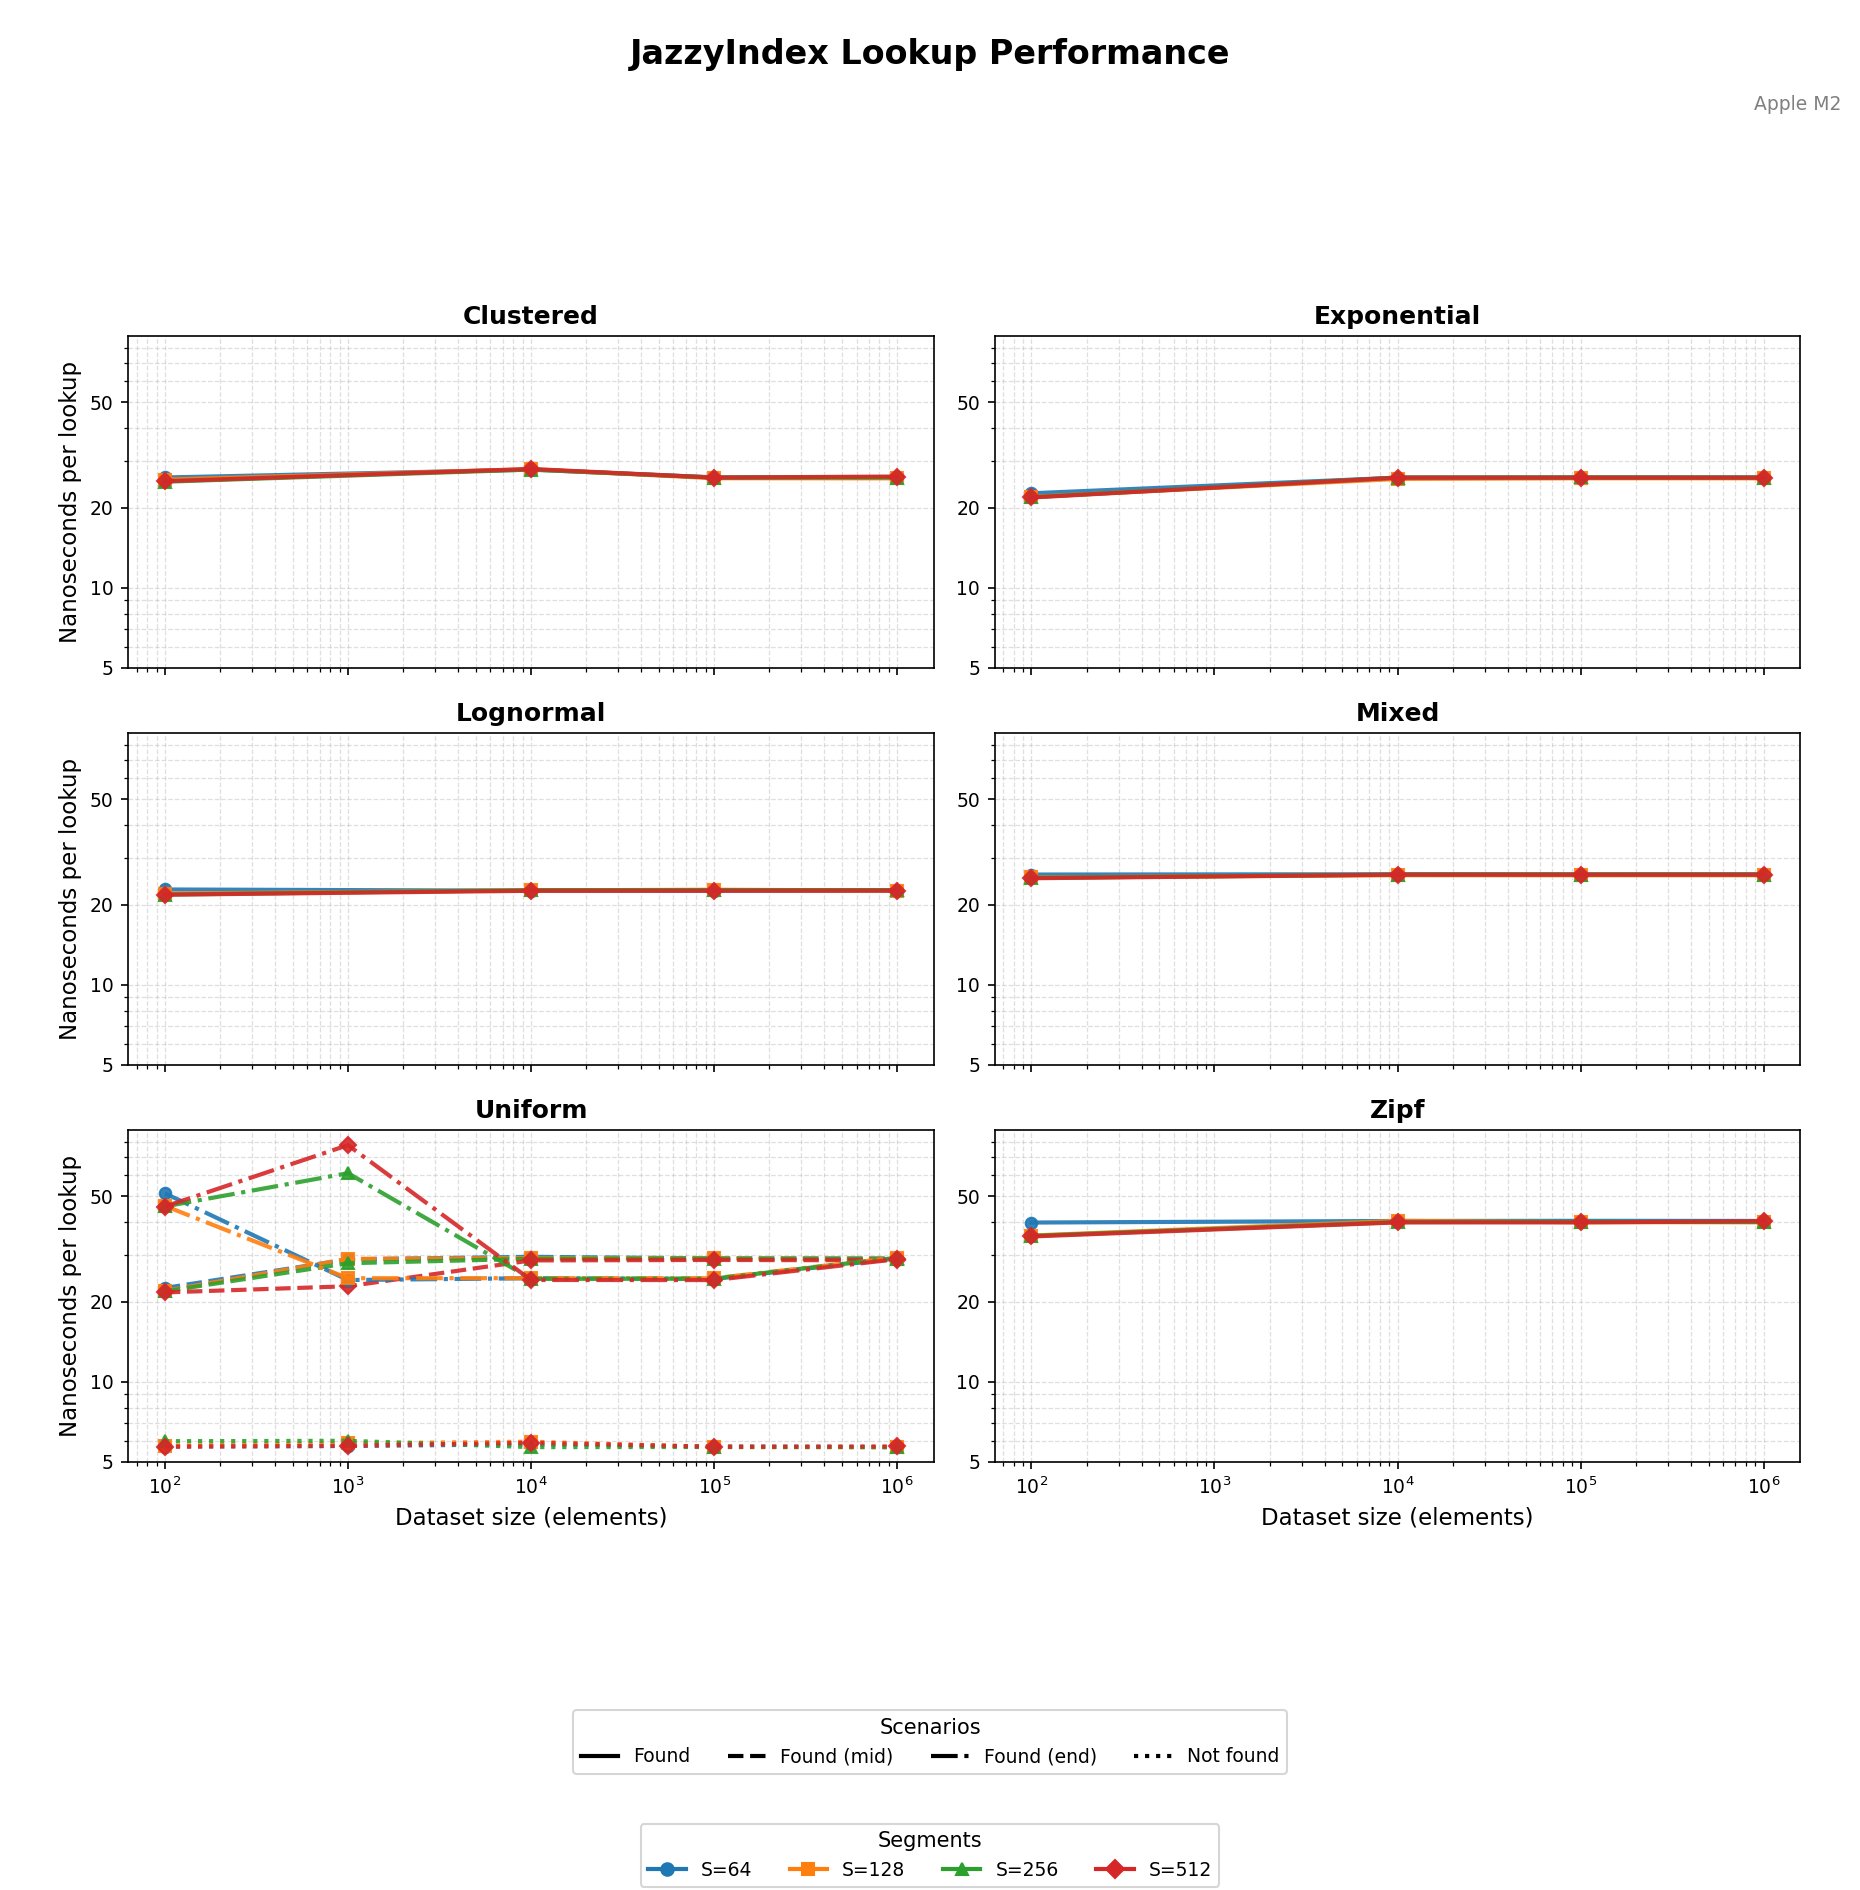
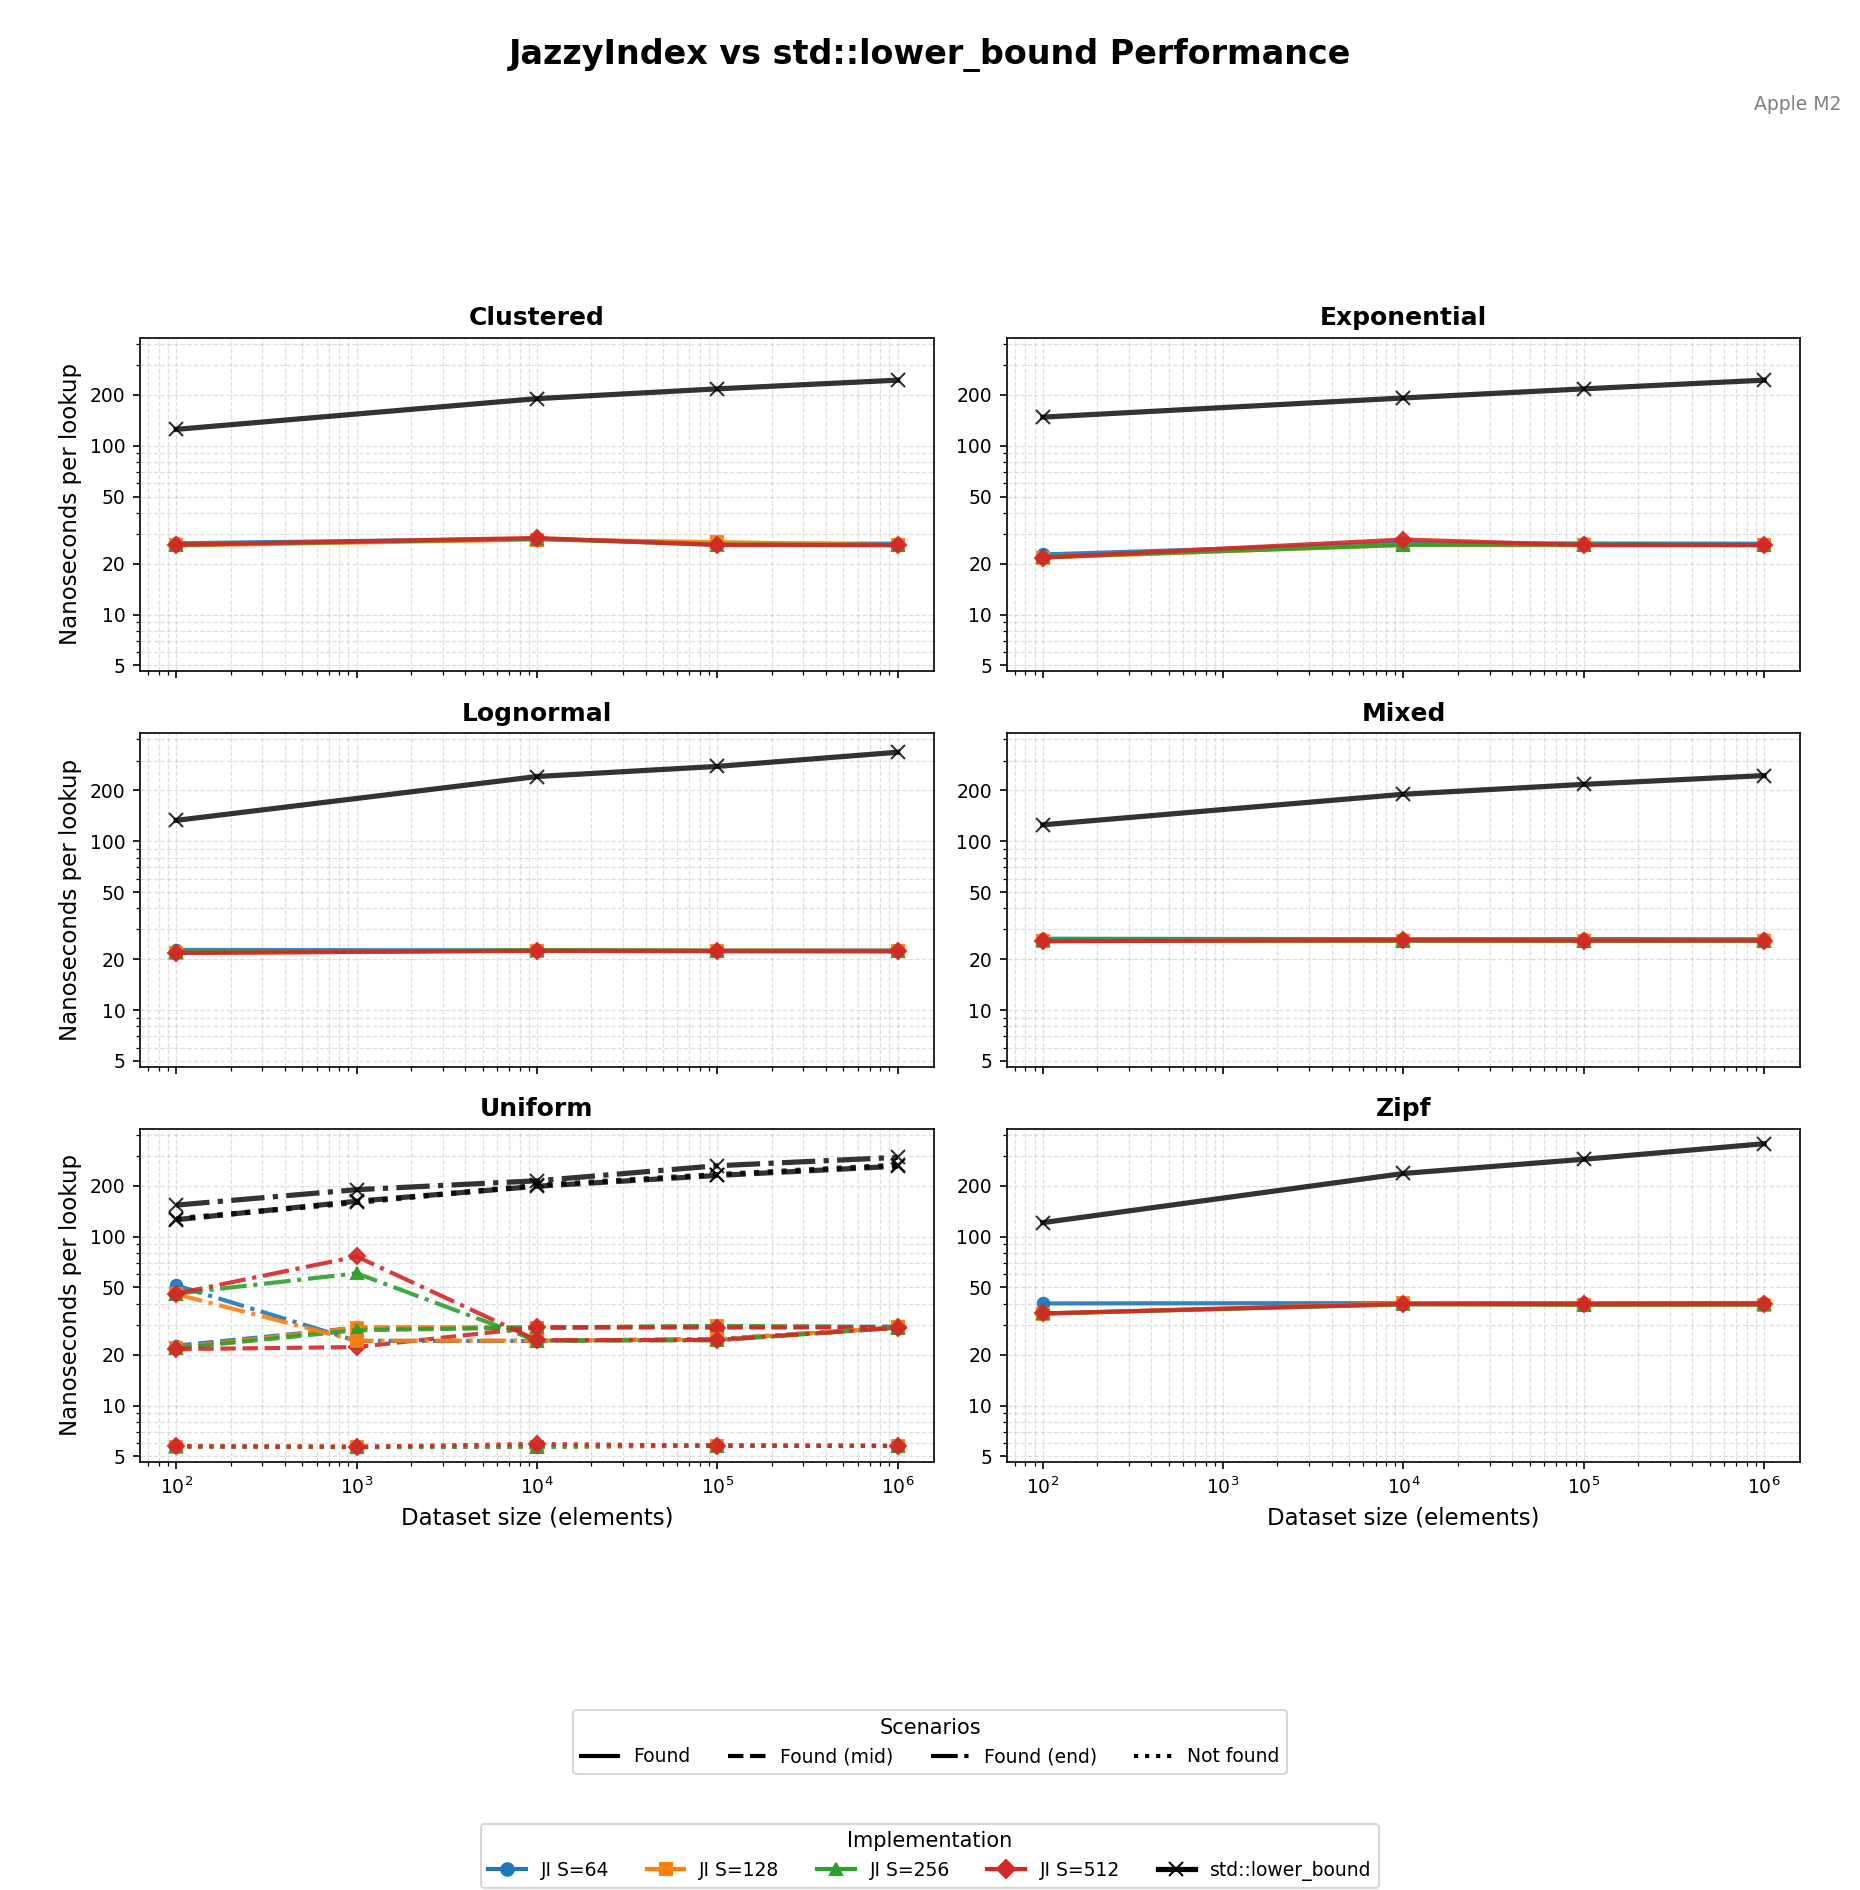
updated readme

diff --git a/README.md b/README.md
@@ -12,15 +12,28 @@ That's a learned index. Build a lightweight model of your data's distribution, u
 
 ## Performance
 
-Here's JazzyIndex running against various data distributions (uniform, exponential, clustered, lognormal, Zipf, mixed):
+Here's JazzyIndex compared head-to-head with `std::lower_bound` (black X markers) across various data distributions:
 
-![JazzyIndex Benchmark Results](benchmarks/jazzy_benchmarks.png)
+![JazzyIndex vs std::lower_bound Benchmark Results](benchmarks/jazzy_benchmarks.png)
 
-**What you're seeing:**
-- **Uniform data** (bottom left): When data is evenly distributed, JazzyIndex can hit near-O(1) performance. Those flat lines at 5-10 nanoseconds? That's the index doing arithmetic to predict the exact position, no searching needed. The variation comes from different query patterns (found vs not-found) and segment counts.
-- **Skewed data** (everything else): When distributions get weird - clustered, exponential, heavy-tailed - JazzyIndex gracefully falls back to consistent ~20-30ns lookups. Notice those lines are completely flat across dataset sizes. Traditional binary search would slope upward as `log(n)` grows.
+**The numbers tell the story:**
 
-The key insight: JazzyIndex doesn't just optimize for the best case. It adapts to your data's shape and maintains consistent performance even when distributions get nasty.
+| Distribution | `std::lower_bound` | JazzyIndex (S=256) | **Speedup** |
+|--------------|-------------------:|-------------------:|------------:|
+| Uniform      | 272 ns | 21 ns | **12.9x** |
+| Lognormal    | 336 ns | 23 ns | **14.9x** |
+| Exponential  | 244 ns | 26 ns | **9.4x** |
+| Clustered    | 244 ns | 26 ns | **9.4x** |
+| Mixed        | 244 ns | 26 ns | **9.4x** |
+| Zipf         | 358 ns | 40 ns | **9.0x** |
+
+*All measurements on 1,000,000 elements (Apple M2)*
+
+**Uniform data (bottom left):** This is where learned indexes shine. `std::lower_bound` follows the classic log(n) curve - starting at 125ns for 100 elements and climbing to 261ns for 1 million elements. JazzyIndex? Completely flat at 22-29ns across all sizes. The "Not found" queries (dotted lines) hit **5.7ns** across all dataset sizes - that's the arithmetic fast path doing pure O(1) lookups with **46x speedup**. As your dataset grows 10,000x (100 → 1M elements), `std::lower_bound` slows by 2.1x while JazzyIndex slows by only 1.3x.
+
+**Skewed distributions (everywhere else):** Here's where JazzyIndex proves it's not just a one-trick pony. On lognormal data, we see the best performance - **14.9x speedup** because the quadratic models fit the curve perfectly. Even on pathological Zipf distributions (heavy-tailed, massive clustering), JazzyIndex still delivers **9.0x speedup**. Quantile segmentation means we're only searching 1/256th of the data, so even when models can't predict perfectly, performance stays fast and consistent.
+
+The key insight: JazzyIndex doesn't just optimize for the best case. It adapts to your data's shape and maintains consistent, predictable performance across all distributions. The black X lines curving upward vs the colored lines staying flat - that's the difference between O(log n) and O(1) in action.
 
 ## How It Works
 
@@ -33,6 +46,30 @@ JazzyIndex partitions your sorted array into equal-sized segments (by element co
 - **Quadratic model**: Values follow a curve (happens with exponential/log distributions). Prediction: `index ≈ a×value² + b×value + c`. Cost: three FMA instructions.
 
 Why per-segment models instead of one global model? Because real data is messy. Your array might be uniform in one region and clustered in another. Per-segment models let us adapt to local characteristics while keeping the math fast.
+
+```mermaid
+graph TD
+    A[Sorted Array] --> B[Partition into Quantiles]
+    B --> C[Segment 0<br/>Elements 0-999]
+    B --> D[Segment 1<br/>Elements 1000-1999]
+    B --> E[Segment 2<br/>Elements 2000-2999]
+    B --> F[...]
+
+    C --> G[Analyze Distribution]
+    D --> H[Analyze Distribution]
+    E --> I[Analyze Distribution]
+
+    G --> J{Best Model?}
+    J -->|All Same| K[Constant: y=c]
+    J -->|Linear Fit| L[Linear: y=mx+b]
+    J -->|Curved| M[Quadratic: y=ax²+bx+c]
+
+    style A fill:#e1f5ff
+    style J fill:#fff3cd
+    style K fill:#d4edda
+    style L fill:#d4edda
+    style M fill:#d4edda
+```
 
 ### Building the Index
 
@@ -64,6 +101,38 @@ The lookup process has three stages:
 - Fallback: if we still haven't found it, binary search the entire segment.
 
 This exponential search pattern is crucial. When predictions are good (low error), we find elements in 1-3 comparisons. When predictions are off (high error, skewed data), we quickly escalate to larger search ranges without wasting time checking every single nearby position.
+
+```mermaid
+flowchart TD
+    Start([Search for value X]) --> Uniform{Data uniform?}
+
+    Uniform -->|Yes| ArithSeg[Compute segment: <br/>idx = X - min × scale]
+    Uniform -->|No| BinSeg[Binary search segments]
+
+    ArithSeg --> Predict
+    BinSeg --> Predict[Use segment's model<br/>to predict index]
+
+    Predict --> Check1{Value at<br/>predicted index?}
+    Check1 -->|Found!| Success([Return pointer])
+    Check1 -->|Miss| Check2{Check ±1, ±2?}
+
+    Check2 -->|Found!| Success
+    Check2 -->|Miss| Expand[Exponentially expand:<br/>±4, ±8, ±16...]
+
+    Expand --> Check3{Found in range?}
+    Check3 -->|Found!| Success
+    Check3 -->|Miss & max_error| Fallback[Binary search<br/>entire segment]
+
+    Fallback --> Final{Found?}
+    Final -->|Yes| Success
+    Final -->|No| NotFound([Return end pointer])
+
+    style Start fill:#e1f5ff
+    style Success fill:#d4edda
+    style NotFound fill:#f8d7da
+    style Predict fill:#fff3cd
+    style Uniform fill:#fff3cd
+```
 
 ### Why This Works
 
